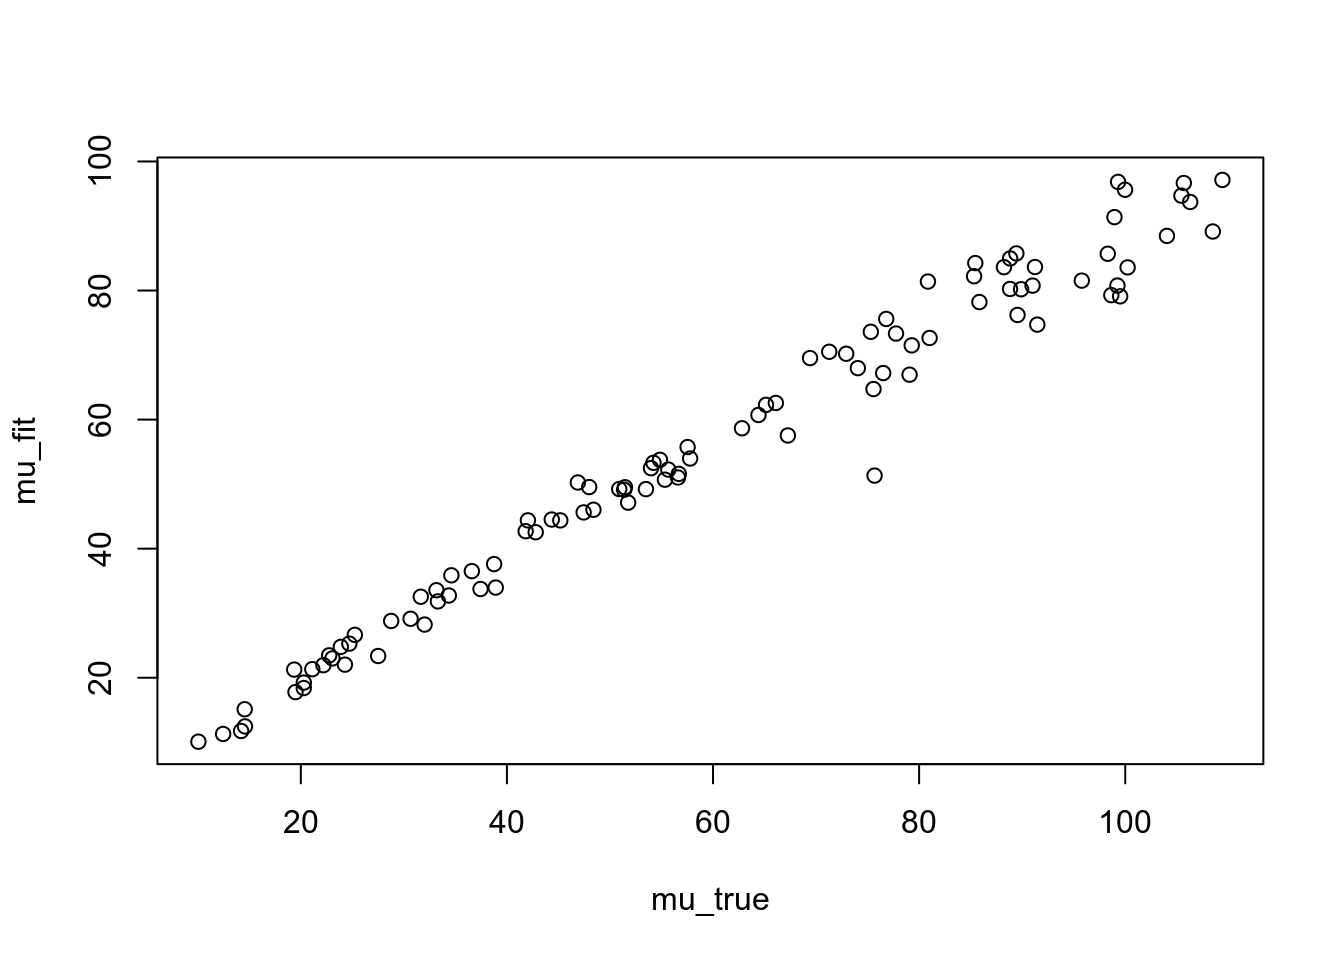
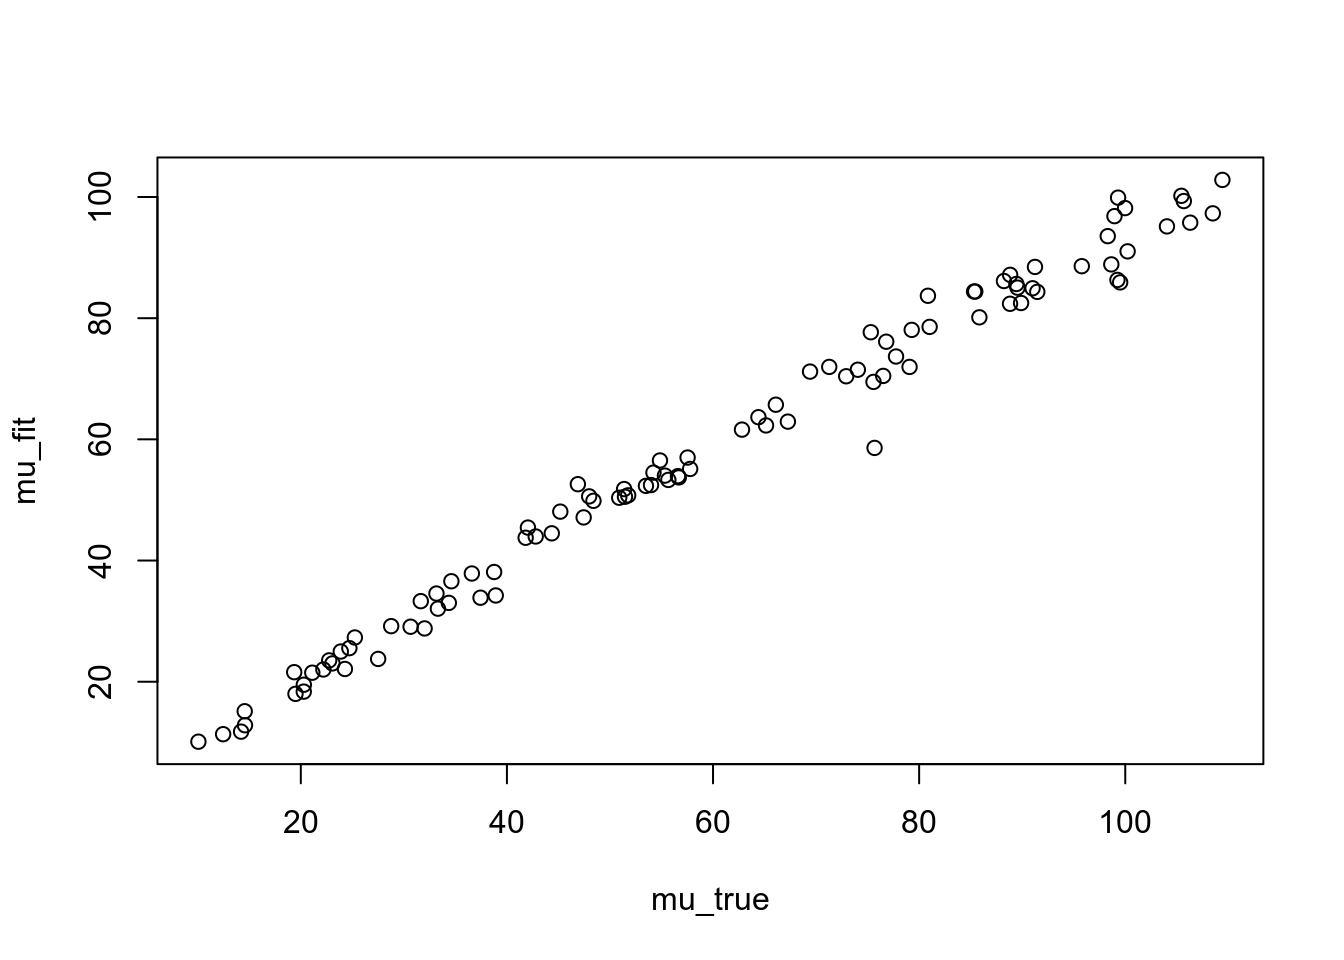
Build site.

diff --git a/docs/experiment_nb_means2.html b/docs/experiment_nb_means2.html
@@ -394,7 +394,7 @@ div.section {
 
 <p>
 <button type="button" class="btn btn-default btn-workflowr btn-workflowr-report" data-toggle="collapse" data-target="#workflowr-report">
-<span class="glyphicon glyphicon-list" aria-hidden="true"></span> workflowr <span class="glyphicon glyphicon-ok text-success" aria-hidden="true"></span>
+<span class="glyphicon glyphicon-list" aria-hidden="true"></span> workflowr <span class="glyphicon glyphicon-exclamation-sign text-danger" aria-hidden="true"></span>
 </button>
 </p>
 <div id="workflowr-report" class="collapse">
@@ -403,7 +403,7 @@ div.section {
 <a data-toggle="tab" href="#summary">Summary</a>
 </li>
 <li>
-<a data-toggle="tab" href="#checks"> Checks <span class="glyphicon glyphicon-ok text-success" aria-hidden="true"></span> </a>
+<a data-toggle="tab" href="#checks"> Checks <span class="glyphicon glyphicon-exclamation-sign text-danger" aria-hidden="true"></span> </a>
 </li>
 <li>
 <a data-toggle="tab" href="#versions">Past versions</a>
@@ -415,7 +415,7 @@ div.section {
 <strong>Last updated:</strong> 2020-04-02
 </p>
 <p>
-<strong>Checks:</strong> <span class="glyphicon glyphicon-ok text-success" aria-hidden="true"></span> 7 <span class="glyphicon glyphicon-exclamation-sign text-danger" aria-hidden="true"></span> 0
+<strong>Checks:</strong> <span class="glyphicon glyphicon-ok text-success" aria-hidden="true"></span> 6 <span class="glyphicon glyphicon-exclamation-sign text-danger" aria-hidden="true"></span> 1
 </p>
 <p>
 <strong>Knit directory:</strong> <code>ebpmf_demo/</code> <span class="glyphicon glyphicon-question-sign" aria-hidden="true" title="This is the local directory in which the code in this file was executed."> </span>
@@ -479,12 +479,18 @@ This reproducible <a href="http://rmarkdown.rstudio.com">R Markdown</a> analysis
 <div class="panel panel-default">
 <div class="panel-heading">
 <p class="panel-title">
-<a data-toggle="collapse" data-parent="#workflowr-checks" href="#strongCachestrongnone"> <span class="glyphicon glyphicon-ok text-success" aria-hidden="true"></span> <strong>Cache:</strong> none </a>
+<a data-toggle="collapse" data-parent="#workflowr-checks" href="#strongCachestrongdetected"> <span class="glyphicon glyphicon-exclamation-sign text-danger" aria-hidden="true"></span> <strong>Cache:</strong> detected </a>
 </p>
 </div>
-<div id="strongCachestrongnone" class="panel-collapse collapse">
+<div id="strongCachestrongdetected" class="panel-collapse collapse">
 <div class="panel-body">
-<p>Nice! There were no cached chunks for this analysis, so you can be confident that you successfully produced the results during this run.</p>
+The following chunks had caches available:
+<ul>
+<li>
+unnamed-chunk-3
+</li>
+</ul>
+<p>To ensure reproducibility of the results, delete the cache directory <code>experiment_nb_means2_cache</code> and re-run the analysis. To have workflowr automatically delete the cache directory prior to building the file, set <code>delete_cache = TRUE</code> when running <code>wflow_build()</code> or <code>wflow_publish()</code>.</p>
 </div>
 </div>
 </div>
@@ -503,10 +509,10 @@ This reproducible <a href="http://rmarkdown.rstudio.com">R Markdown</a> analysis
 <div class="panel panel-default">
 <div class="panel-heading">
 <p class="panel-title">
-<a data-toggle="collapse" data-parent="#workflowr-checks" href="#strongRepositoryversionstrongahrefhttpsgithubcomzihao12ebpmfdemotreec26d8836517a41312885ff9f0b365289c74850bdtargetblankc26d883a"> <span class="glyphicon glyphicon-ok text-success" aria-hidden="true"></span> <strong>Repository version:</strong> <a href="https://github.com/zihao12/ebpmf_demo/tree/c26d8836517a41312885ff9f0b365289c74850bd" target="_blank">c26d883</a> </a>
+<a data-toggle="collapse" data-parent="#workflowr-checks" href="#strongRepositoryversionstrongahrefhttpsgithubcomzihao12ebpmfdemotreebce086f42858c4cbfc2d5e43b2776247f96c2955targetblankbce086fa"> <span class="glyphicon glyphicon-ok text-success" aria-hidden="true"></span> <strong>Repository version:</strong> <a href="https://github.com/zihao12/ebpmf_demo/tree/bce086f42858c4cbfc2d5e43b2776247f96c2955" target="_blank">bce086f</a> </a>
 </p>
 </div>
[2 lines of base64/hex data omitted]
 <div class="panel-body">
 <p>
 Great! You are using Git for version control. Tracking code development and connecting the code version to the results is critical for reproducibility. The version displayed above was the version of the Git repository at the time these results were generated. <br><br> Note that you need to be careful to ensure that all relevant files for the analysis have been committed to Git prior to generating the results (you can use <code>wflow_publish</code> or <code>wflow_git_commit</code>). workflowr only checks the R Markdown file, but you know if there are other scripts or data files that it depends on. Below is the status of the Git repository when the results were generated:
@@ -522,6 +528,7 @@ Untracked files:
     Untracked:  analysis/demo_sparse_ebpmf_two_gamma_cache/
     Untracked:  analysis/ebpm_two_gamma_speed.Rmd
     Untracked:  analysis/experiment_ebpm_gammamix3_cache/
+    Untracked:  analysis/experiment_nb_means2_cache/
     Untracked:  analysis/experiment_nb_means_cache_0/
     Untracked:  analysis/fast_mle_nb.Rmd
     Untracked:  analysis/fast_weighted_nb.Rmd
@@ -540,6 +547,7 @@ Untracked files:
     Untracked:  data/nmf_sparse17.Rds
     Untracked:  data/nmf_sparse_tg.Rds
     Untracked:  data/out_current_progress_ebpmf.Rds
+    Untracked:  script/test_nb_means2.R
 
 Unstaged changes:
     Modified:   .gitignore
@@ -550,6 +558,7 @@ Unstaged changes:
     Modified:   analysis/nmf_sparse13.Rmd
     Modified:   analysis/nmf_sparse14.Rmd
     Modified:   analysis/nmf_sparse16.Rmd
+    Modified:   script/nb_means.R
 
 </code></pre>
 <p>
@@ -588,6 +597,40 @@ Message
 </tr>
 </thead>
 <tbody>
+<tr>
+<td>
+Rmd
+</td>
+<td>
+<a href="https://github.com/zihao12/ebpmf_demo/blob/bce086f42858c4cbfc2d5e43b2776247f96c2955/analysis/experiment_nb_means2.Rmd" target="_blank">bce086f</a>
+</td>
+<td>
+zihao12
+</td>
+<td>
+2020-04-02
+</td>
+<td>
+wflow_publish(“analysis/experiment_nb_means2.Rmd”)
+</td>
+</tr>
+<tr>
+<td>
+html
+</td>
+<td>
+<a href="https://rawcdn.githack.com/zihao12/ebpmf_demo/fb6ff86a6ef612cb67765100aec3fc794041aad4/docs/experiment_nb_means2.html" target="_blank">fb6ff86</a>
+</td>
+<td>
+zihao12
+</td>
+<td>
+2020-04-02
+</td>
+<td>
+Build site.
+</td>
+</tr>
 <tr>
 <td>
 Rmd
@@ -671,6 +714,12 @@ experiment_nb_means2
 \end{align}\]</span>
 <p>The assumption is that <span class="math inline">\(\Phi\)</span> is sparse.<br />
 The model and implementation details are in <a href="https://zihao12.github.io/ebpmf_demo/another_poisson_means.pdf">another poisson means</a>. The code is in <a href="https://github.com/zihao12/ebpmf_demo/blob/master/script/nb_means.R">code</a></p>
+</div>
+<div id="result" class="section level2">
+<h2>result</h2>
+<ul>
+<li></li>
+</ul>
 <pre class="r"><code>rm(list = ls())
 source(&quot;script/nb_means.R&quot;)
 set.seed(123)</code></pre>
@@ -726,8 +775,202 @@ set.seed(123)</code></pre>
 <!-- ```{r cache=TRUE, autodep=TRUE, message=FALSE, warning=FALSE} -->
 <!-- exper <- exper_nb_means(K = 10, p = 99, maxiter = 100, verbose = FALSE) -->
 <!-- ``` -->
-<pre class="r"><code>exper &lt;- exper_nb_means(K = 10, p = 99, maxiter = 100, verbose = FALSE)</code></pre>
-<p>There is optimization issue when initializing from truth …</p>
+<pre class="r"><code>exper &lt;- exper_nb_means(K = 10, p = 99, maxiter = 200, verbose = FALSE)</code></pre>
+<pre><code>Error in (function (f, p, ..., hessian = FALSE, typsize = rep(1, length(p)),  : 
+  probable coding error in analytic gradient
+Error in (function (f, p, ..., hessian = FALSE, typsize = rep(1, length(p)),  : 
+  probable coding error in analytic gradient
+Error in (function (f, p, ..., hessian = FALSE, typsize = rep(1, length(p)),  : 
+  probable coding error in analytic gradient
+Error in (function (f, p, ..., hessian = FALSE, typsize = rep(1, length(p)),  : 
+  probable coding error in analytic gradient
+Error in (function (f, p, ..., hessian = FALSE, typsize = rep(1, length(p)),  : 
+  probable coding error in analytic gradient
+Error in (function (f, p, ..., hessian = FALSE, typsize = rep(1, length(p)),  : 
+  probable coding error in analytic gradient
+Error in (function (f, p, ..., hessian = FALSE, typsize = rep(1, length(p)),  : 
+  probable coding error in analytic gradient
+Error in (function (f, p, ..., hessian = FALSE, typsize = rep(1, length(p)),  : 
+  probable coding error in analytic gradient
+Error in (function (f, p, ..., hessian = FALSE, typsize = rep(1, length(p)),  : 
+  probable coding error in analytic gradient
+Error in (function (f, p, ..., hessian = FALSE, typsize = rep(1, length(p)),  : 
+  probable coding error in analytic gradient
+Error in (function (f, p, ..., hessian = FALSE, typsize = rep(1, length(p)),  : 
+  probable coding error in analytic gradient
+Error in (function (f, p, ..., hessian = FALSE, typsize = rep(1, length(p)),  : 
+  probable coding error in analytic gradient
+Error in (function (f, p, ..., hessian = FALSE, typsize = rep(1, length(p)),  : 
+  probable coding error in analytic gradient
+Error in (function (f, p, ..., hessian = FALSE, typsize = rep(1, length(p)),  : 
+  probable coding error in analytic gradient
+Error in (function (f, p, ..., hessian = FALSE, typsize = rep(1, length(p)),  : 
+  probable coding error in analytic gradient
+Error in (function (f, p, ..., hessian = FALSE, typsize = rep(1, length(p)),  : 
+  probable coding error in analytic gradient
+Error in (function (f, p, ..., hessian = FALSE, typsize = rep(1, length(p)),  : 
+  probable coding error in analytic gradient
+Error in (function (f, p, ..., hessian = FALSE, typsize = rep(1, length(p)),  : 
+  probable coding error in analytic gradient
+Error in (function (f, p, ..., hessian = FALSE, typsize = rep(1, length(p)),  : 
+  probable coding error in analytic gradient
+Error in (function (f, p, ..., hessian = FALSE, typsize = rep(1, length(p)),  : 
+  probable coding error in analytic gradient
+Error in (function (f, p, ..., hessian = FALSE, typsize = rep(1, length(p)),  : 
+  probable coding error in analytic gradient
+Error in (function (f, p, ..., hessian = FALSE, typsize = rep(1, length(p)),  : 
+  probable coding error in analytic gradient
+Error in (function (f, p, ..., hessian = FALSE, typsize = rep(1, length(p)),  : 
+  probable coding error in analytic gradient
+Error in (function (f, p, ..., hessian = FALSE, typsize = rep(1, length(p)),  : 
+  probable coding error in analytic gradient
+Error in (function (f, p, ..., hessian = FALSE, typsize = rep(1, length(p)),  : 
+  probable coding error in analytic gradient
+Error in (function (f, p, ..., hessian = FALSE, typsize = rep(1, length(p)),  : 
+  probable coding error in analytic gradient
+Error in (function (f, p, ..., hessian = FALSE, typsize = rep(1, length(p)),  : 
+  probable coding error in analytic gradient
+Error in (function (f, p, ..., hessian = FALSE, typsize = rep(1, length(p)),  : 
+  probable coding error in analytic gradient
+Error in (function (f, p, ..., hessian = FALSE, typsize = rep(1, length(p)),  : 
+  probable coding error in analytic gradient
+Error in (function (f, p, ..., hessian = FALSE, typsize = rep(1, length(p)),  : 
+  probable coding error in analytic gradient
+Error in (function (f, p, ..., hessian = FALSE, typsize = rep(1, length(p)),  : 
+  probable coding error in analytic gradient
+Error in (function (f, p, ..., hessian = FALSE, typsize = rep(1, length(p)),  : 
+  probable coding error in analytic gradient
+Error in (function (f, p, ..., hessian = FALSE, typsize = rep(1, length(p)),  : 
+  probable coding error in analytic gradient
+Error in (function (f, p, ..., hessian = FALSE, typsize = rep(1, length(p)),  : 
+  probable coding error in analytic gradient
+Error in (function (f, p, ..., hessian = FALSE, typsize = rep(1, length(p)),  : 
+  probable coding error in analytic gradient
+Error in (function (f, p, ..., hessian = FALSE, typsize = rep(1, length(p)),  : 
+  probable coding error in analytic gradient
+Error in (function (f, p, ..., hessian = FALSE, typsize = rep(1, length(p)),  : 
+  probable coding error in analytic gradient
+Error in (function (f, p, ..., hessian = FALSE, typsize = rep(1, length(p)),  : 
+  probable coding error in analytic gradient
+Error in (function (f, p, ..., hessian = FALSE, typsize = rep(1, length(p)),  : 
+  probable coding error in analytic gradient
+Error in (function (f, p, ..., hessian = FALSE, typsize = rep(1, length(p)),  : 
+  probable coding error in analytic gradient
+Error in (function (f, p, ..., hessian = FALSE, typsize = rep(1, length(p)),  : 
+  probable coding error in analytic gradient
+Error in (function (f, p, ..., hessian = FALSE, typsize = rep(1, length(p)),  : 
+  probable coding error in analytic gradient
+Error in (function (f, p, ..., hessian = FALSE, typsize = rep(1, length(p)),  : 
+  probable coding error in analytic gradient
+Error in (function (f, p, ..., hessian = FALSE, typsize = rep(1, length(p)),  : 
+  probable coding error in analytic gradient
+Error in (function (f, p, ..., hessian = FALSE, typsize = rep(1, length(p)),  : 
+  probable coding error in analytic gradient
+Error in (function (f, p, ..., hessian = FALSE, typsize = rep(1, length(p)),  : 
+  probable coding error in analytic gradient
+Error in (function (f, p, ..., hessian = FALSE, typsize = rep(1, length(p)),  : 
+  probable coding error in analytic gradient
+Error in (function (f, p, ..., hessian = FALSE, typsize = rep(1, length(p)),  : 
+  probable coding error in analytic gradient
+Error in (function (f, p, ..., hessian = FALSE, typsize = rep(1, length(p)),  : 
+  probable coding error in analytic gradient
+Error in (function (f, p, ..., hessian = FALSE, typsize = rep(1, length(p)),  : 
+  probable coding error in analytic gradient
+Error in (function (f, p, ..., hessian = FALSE, typsize = rep(1, length(p)),  : 
+  probable coding error in analytic gradient
+Error in (function (f, p, ..., hessian = FALSE, typsize = rep(1, length(p)),  : 
+  probable coding error in analytic gradient
+Error in (function (f, p, ..., hessian = FALSE, typsize = rep(1, length(p)),  : 
+  probable coding error in analytic gradient
+Error in (function (f, p, ..., hessian = FALSE, typsize = rep(1, length(p)),  : 
+  probable coding error in analytic gradient
+Error in (function (f, p, ..., hessian = FALSE, typsize = rep(1, length(p)),  : 
+  probable coding error in analytic gradient
+Error in (function (f, p, ..., hessian = FALSE, typsize = rep(1, length(p)),  : 
+  probable coding error in analytic gradient
+Error in (function (f, p, ..., hessian = FALSE, typsize = rep(1, length(p)),  : 
+  probable coding error in analytic gradient
+Error in (function (f, p, ..., hessian = FALSE, typsize = rep(1, length(p)),  : 
+  probable coding error in analytic gradient
+Error in (function (f, p, ..., hessian = FALSE, typsize = rep(1, length(p)),  : 
+  probable coding error in analytic gradient
+Error in (function (f, p, ..., hessian = FALSE, typsize = rep(1, length(p)),  : 
+  probable coding error in analytic gradient
+Error in (function (f, p, ..., hessian = FALSE, typsize = rep(1, length(p)),  : 
+  probable coding error in analytic gradient
+Error in (function (f, p, ..., hessian = FALSE, typsize = rep(1, length(p)),  : 
+  probable coding error in analytic gradient
+Error in (function (f, p, ..., hessian = FALSE, typsize = rep(1, length(p)),  : 
+  probable coding error in analytic gradient
+Error in (function (f, p, ..., hessian = FALSE, typsize = rep(1, length(p)),  : 
+  probable coding error in analytic gradient
+Error in (function (f, p, ..., hessian = FALSE, typsize = rep(1, length(p)),  : 
+  probable coding error in analytic gradient
+Error in (function (f, p, ..., hessian = FALSE, typsize = rep(1, length(p)),  : 
+  probable coding error in analytic gradient
+Error in (function (f, p, ..., hessian = FALSE, typsize = rep(1, length(p)),  : 
+  probable coding error in analytic gradient
+Error in (function (f, p, ..., hessian = FALSE, typsize = rep(1, length(p)),  : 
+  probable coding error in analytic gradient
+Error in (function (f, p, ..., hessian = FALSE, typsize = rep(1, length(p)),  : 
+  probable coding error in analytic gradient
+Error in (function (f, p, ..., hessian = FALSE, typsize = rep(1, length(p)),  : 
+  probable coding error in analytic gradient
+Error in (function (f, p, ..., hessian = FALSE, typsize = rep(1, length(p)),  : 
+  probable coding error in analytic gradient
+Error in (function (f, p, ..., hessian = FALSE, typsize = rep(1, length(p)),  : 
+  probable coding error in analytic gradient
+Error in (function (f, p, ..., hessian = FALSE, typsize = rep(1, length(p)),  : 
+  probable coding error in analytic gradient
+Error in (function (f, p, ..., hessian = FALSE, typsize = rep(1, length(p)),  : 
+  probable coding error in analytic gradient
+Error in (function (f, p, ..., hessian = FALSE, typsize = rep(1, length(p)),  : 
+  probable coding error in analytic gradient
+Error in (function (f, p, ..., hessian = FALSE, typsize = rep(1, length(p)),  : 
+  probable coding error in analytic gradient
+Error in (function (f, p, ..., hessian = FALSE, typsize = rep(1, length(p)),  : 
+  probable coding error in analytic gradient
+Error in (function (f, p, ..., hessian = FALSE, typsize = rep(1, length(p)),  : 
+  probable coding error in analytic gradient
+Error in (function (f, p, ..., hessian = FALSE, typsize = rep(1, length(p)),  : 
+  probable coding error in analytic gradient
+Error in (function (f, p, ..., hessian = FALSE, typsize = rep(1, length(p)),  : 
+  probable coding error in analytic gradient
+Error in (function (f, p, ..., hessian = FALSE, typsize = rep(1, length(p)),  : 
+  probable coding error in analytic gradient
+Error in (function (f, p, ..., hessian = FALSE, typsize = rep(1, length(p)),  : 
+  probable coding error in analytic gradient
+Error in (function (f, p, ..., hessian = FALSE, typsize = rep(1, length(p)),  : 
+  probable coding error in analytic gradient
+Error in (function (f, p, ..., hessian = FALSE, typsize = rep(1, length(p)),  : 
+  probable coding error in analytic gradient
+Error in (function (f, p, ..., hessian = FALSE, typsize = rep(1, length(p)),  : 
+  probable coding error in analytic gradient
+Error in (function (f, p, ..., hessian = FALSE, typsize = rep(1, length(p)),  : 
+  probable coding error in analytic gradient
+Error in (function (f, p, ..., hessian = FALSE, typsize = rep(1, length(p)),  : 
+  probable coding error in analytic gradient
+Error in (function (f, p, ..., hessian = FALSE, typsize = rep(1, length(p)),  : 
+  probable coding error in analytic gradient
+Error in (function (f, p, ..., hessian = FALSE, typsize = rep(1, length(p)),  : 
+  probable coding error in analytic gradient
+Error in (function (f, p, ..., hessian = FALSE, typsize = rep(1, length(p)),  : 
+  probable coding error in analytic gradient
+Error in (function (f, p, ..., hessian = FALSE, typsize = rep(1, length(p)),  : 
+  probable coding error in analytic gradient
+Error in (function (f, p, ..., hessian = FALSE, typsize = rep(1, length(p)),  : 
+  probable coding error in analytic gradient
+Error in (function (f, p, ..., hessian = FALSE, typsize = rep(1, length(p)),  : 
+  probable coding error in analytic gradient
+Error in (function (f, p, ..., hessian = FALSE, typsize = rep(1, length(p)),  : 
+  probable coding error in analytic gradient
+Error in (function (f, p, ..., hessian = FALSE, typsize = rep(1, length(p)),  : 
+  probable coding error in analytic gradient
+Error in (function (f, p, ..., hessian = FALSE, typsize = rep(1, length(p)),  : 
+  probable coding error in analytic gradient</code></pre>
+<ul>
+<li>There are optimization issues when initializing from truth, or running too many iterations …</li>
+</ul>
 </div>
 <div id="comparee-loglikelihood" class="section level2">
 <h2>comparee loglikelihood</h2>
@@ -766,6 +1009,17 @@ Date
 </tr>
 </thead>
 <tbody>
+<tr>
+<td>
+<a href="https://github.com/zihao12/ebpmf_demo/blob/fb6ff86a6ef612cb67765100aec3fc794041aad4/docs/figure/experiment_nb_means2.Rmd/unnamed-chunk-4-1.png" target="_blank">fb6ff86</a>
+</td>
+<td>
+zihao12
+</td>
+<td>
+2020-04-02
+</td>
+</tr>
 <tr>
 <td>
 <a href="https://github.com/zihao12/ebpmf_demo/blob/30c6039b61e90b4b2a77da4579f86bf286d99c50/docs/figure/experiment_nb_means2.Rmd/unnamed-chunk-4-1.png" target="_blank">30c6039</a>
@@ -812,6 +1066,17 @@ Date
 <tbody>
 <tr>
 <td>
+<a href="https://github.com/zihao12/ebpmf_demo/blob/fb6ff86a6ef612cb67765100aec3fc794041aad4/docs/figure/experiment_nb_means2.Rmd/unnamed-chunk-5-1.png" target="_blank">fb6ff86</a>
+</td>
+<td>
+zihao12
+</td>
+<td>
+2020-04-02
+</td>
+</tr>
+<tr>
+<td>
 <a href="https://github.com/zihao12/ebpmf_demo/blob/30c6039b61e90b4b2a77da4579f86bf286d99c50/docs/figure/experiment_nb_means2.Rmd/unnamed-chunk-5-1.png" target="_blank">30c6039</a>
 </td>
 <td>
@@ -853,6 +1118,17 @@ Date
 </tr>
 </thead>
 <tbody>
+<tr>
+<td>
+<a href="https://github.com/zihao12/ebpmf_demo/blob/fb6ff86a6ef612cb67765100aec3fc794041aad4/docs/figure/experiment_nb_means2.Rmd/unnamed-chunk-6-1.png" target="_blank">fb6ff86</a>
+</td>
+<td>
+zihao12
+</td>
+<td>
+2020-04-02
+</td>
+</tr>
 <tr>
 <td>
 <a href="https://github.com/zihao12/ebpmf_demo/blob/30c6039b61e90b4b2a77da4579f86bf286d99c50/docs/figure/experiment_nb_means2.Rmd/unnamed-chunk-6-1.png" target="_blank">30c6039</a>
